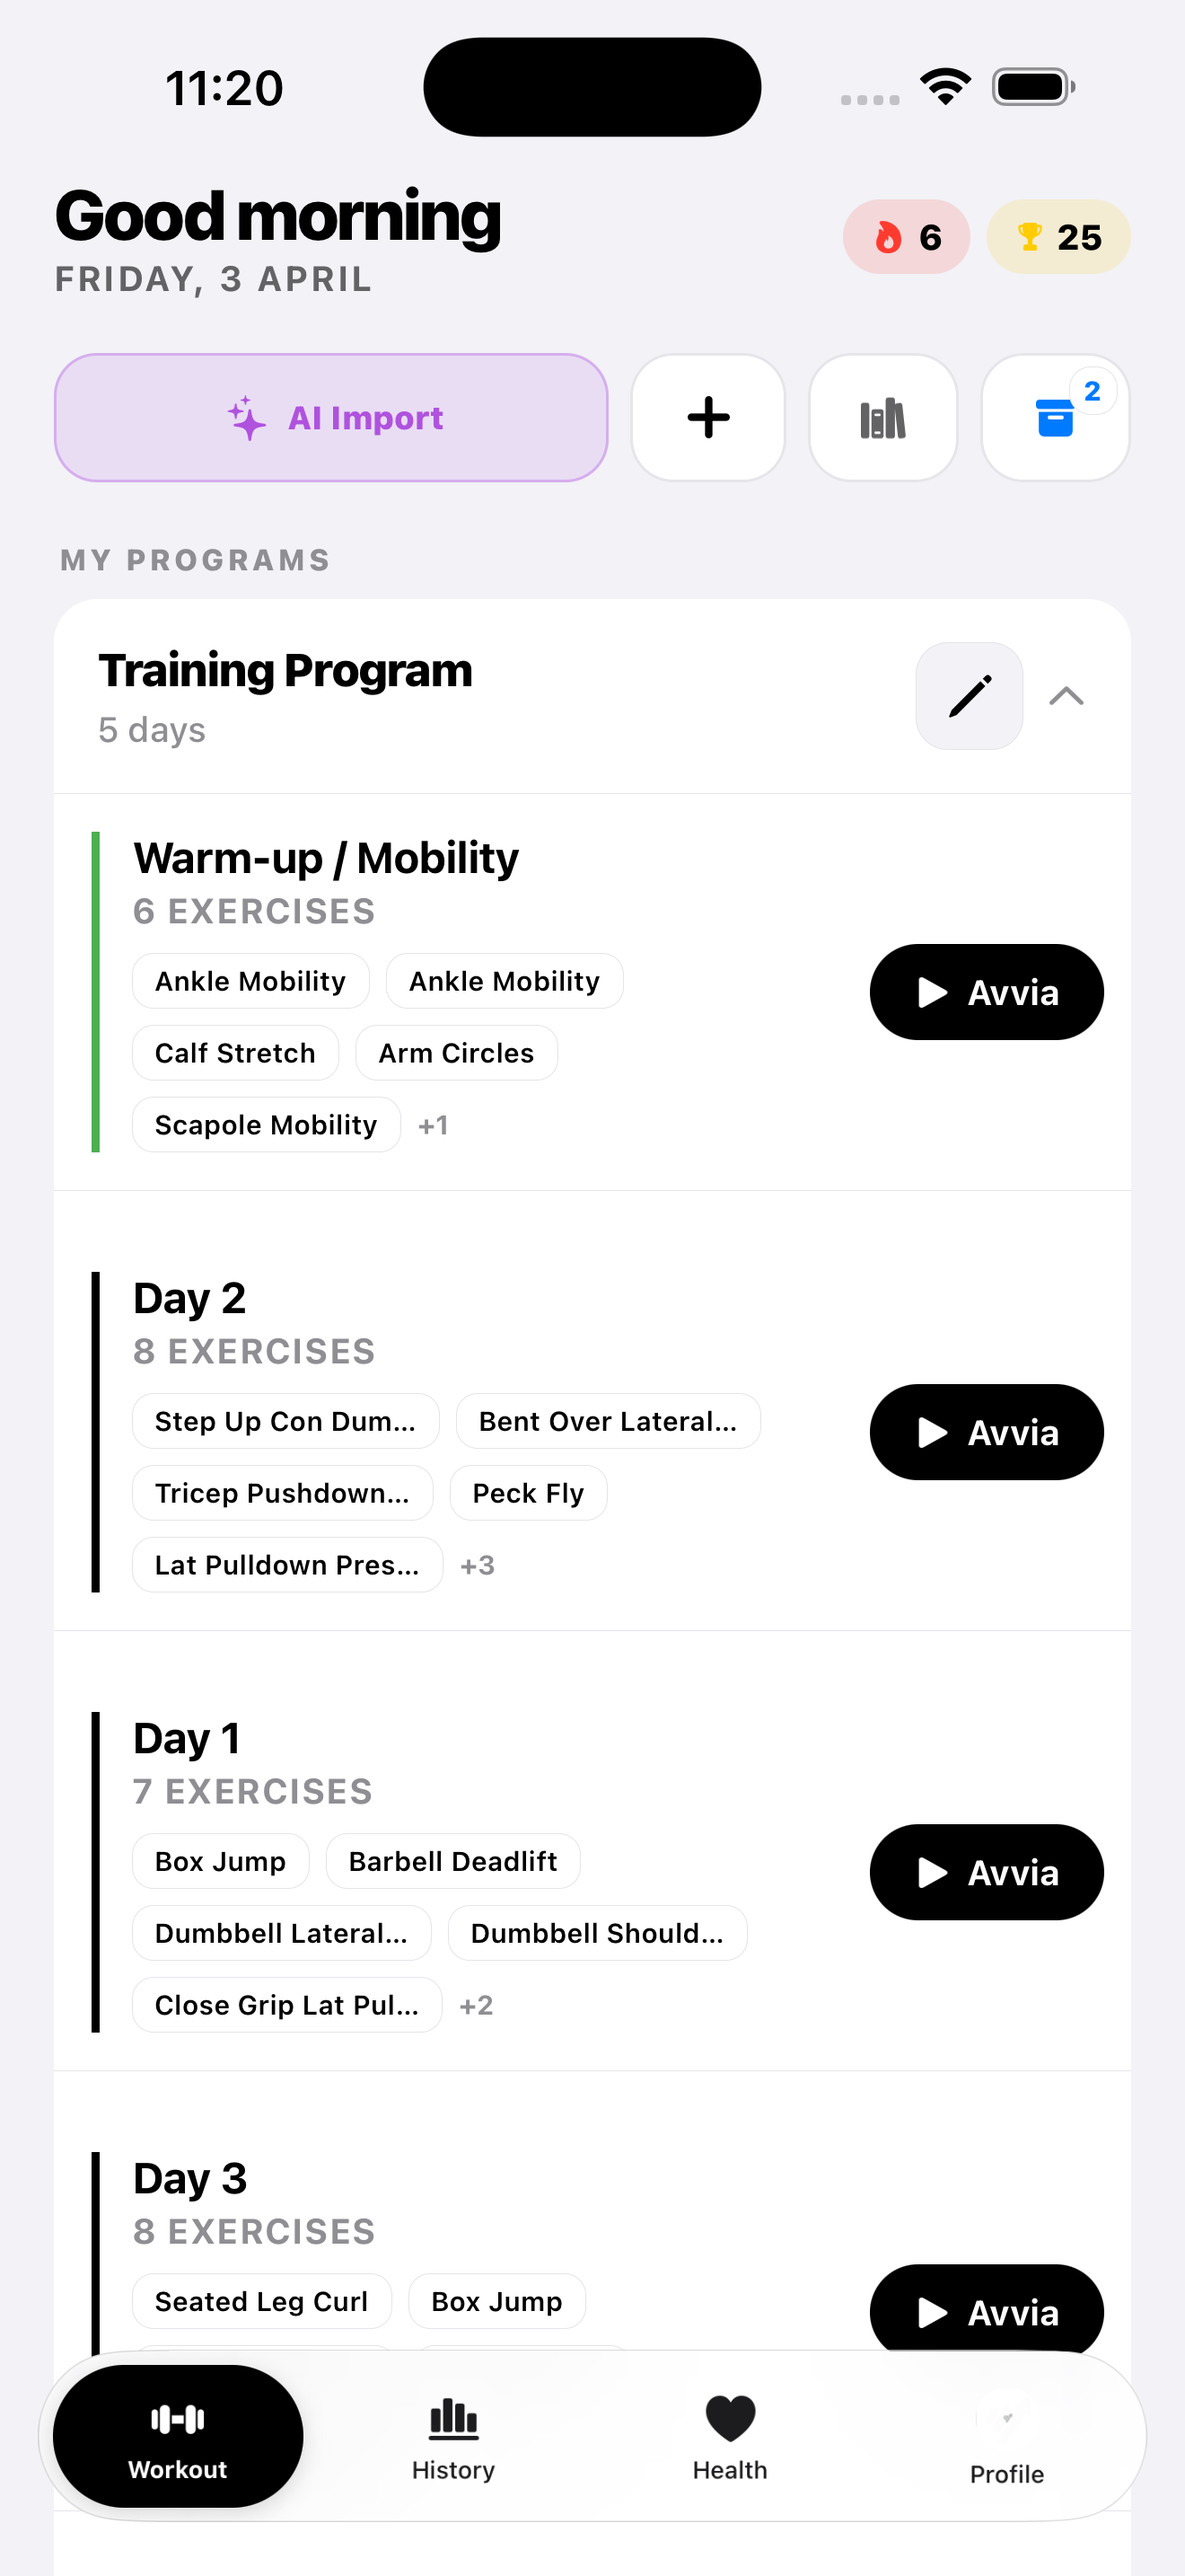
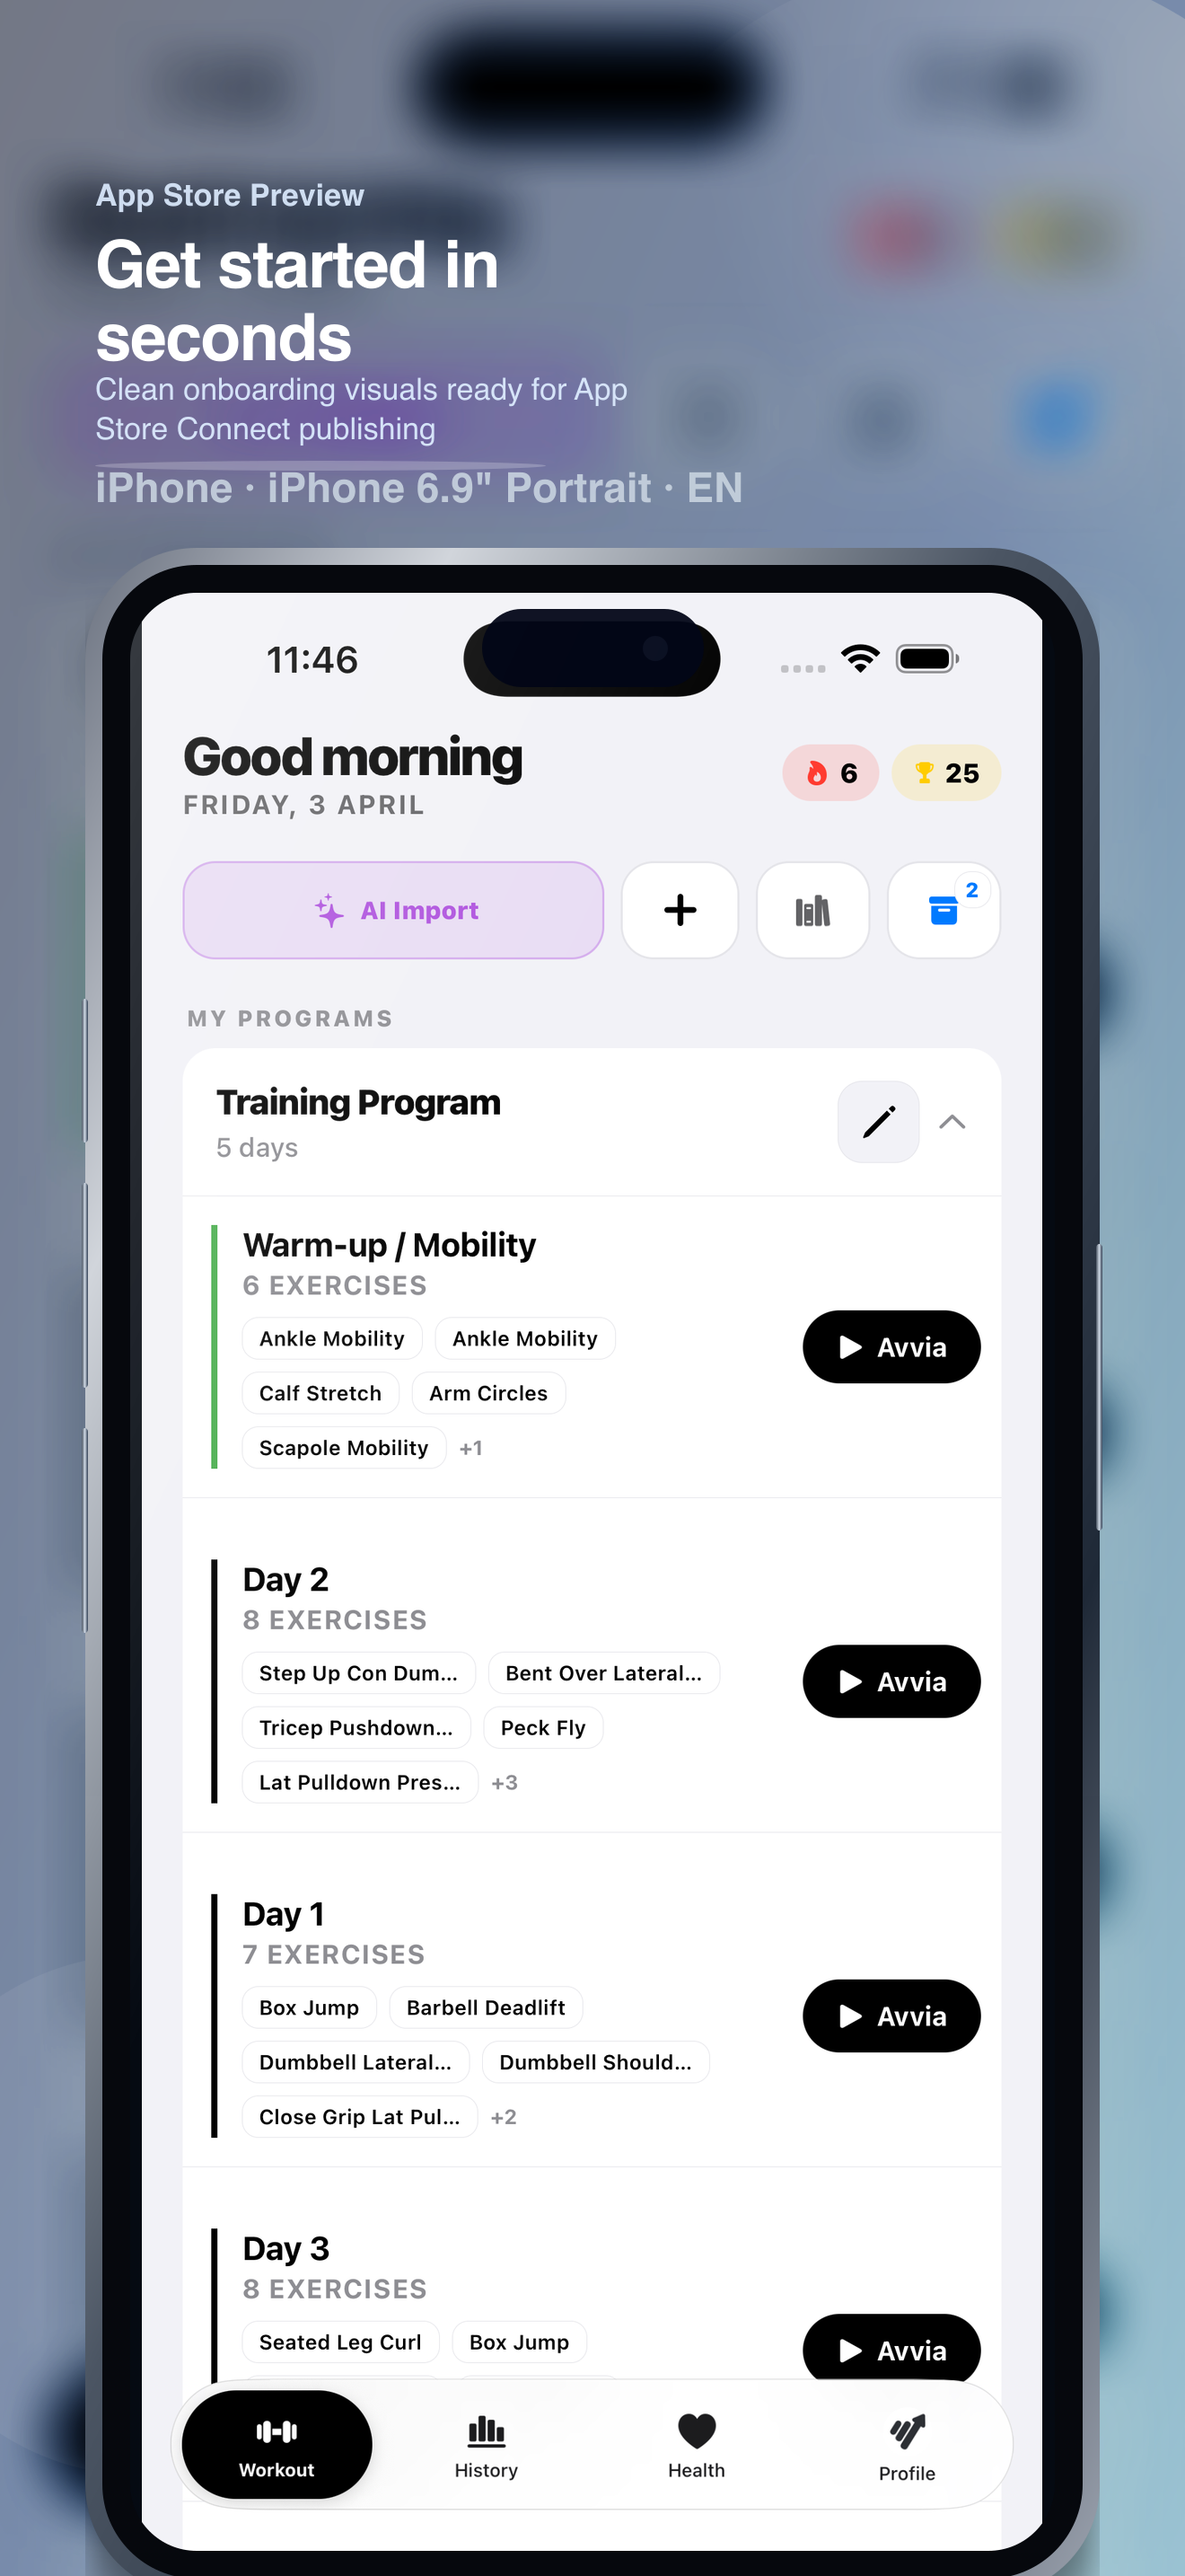
fix(site): replace screenshots with framed App Store previews, fix HTML bugs
- Replace 4 plain simulator screenshots with 5 framed ScreenGenerator previews
  (Workout, Statistics, Muscle Analysis, Health, Profile tabs)
- Fix broken HTML: move <script> block out of <footer> to before </body>
- Fix stats bar: replace 'Apple'/'Watch' text values with ✓/⌚ icons
- Remove 'How it Works' from nav (matches footer nav)
- Add 5th carousel dot for new screenshot

diff --git a/index.html b/index.html
@@ -21,7 +21,6 @@
   </div>
   <div class="nav-links">
     <a href="#features">Features</a>
-    <a href="#how-it-works">How it Works</a>
     <a href="#screenshots">Screenshots</a>
     <a href="#pro">Pro</a>
     <a href="./privacy.html">Privacy</a>
@@ -55,7 +54,7 @@
       <div style="font-size:13px;color:var(--text-muted);margin-top:4px;">Exercises included</div>
     </div>
     <div>
-      <div style="font-size:32px;font-weight:800;background:var(--gradient-accent);-webkit-background-clip:text;-webkit-text-fill-color:transparent;">Apple</div>
+      <div style="font-size:32px;font-weight:800;background:var(--gradient-accent);-webkit-background-clip:text;-webkit-text-fill-color:transparent;">✓</div>
       <div style="font-size:13px;color:var(--text-muted);margin-top:4px;">HealthKit integrated</div>
     </div>
     <div>
@@ -63,7 +62,7 @@
       <div style="font-size:13px;color:var(--text-muted);margin-top:4px;">Bilingual app</div>
     </div>
     <div>
-      <div style="font-size:32px;font-weight:800;color:var(--text);">Watch</div>
+      <div style="font-size:32px;font-weight:800;color:var(--text);">⌚</div>
       <div style="font-size:13px;color:var(--text-muted);margin-top:4px;">Apple Watch support</div>
     </div>
   </div>
@@ -158,15 +157,19 @@
         <div class="screenshot-label">Workout</div>
       </div>
       <div class="screenshot-item">
-        <img src="./screenshots/02_history.png" alt="Progress & History">
-        <div class="screenshot-label">History &amp; Stats</div>
+        <img src="./screenshots/02_statistics.png" alt="Statistics">
+        <div class="screenshot-label">Statistics</div>
       </div>
       <div class="screenshot-item">
-        <img src="./screenshots/03_health.png" alt="Health Metrics">
-        <div class="screenshot-label">Health Metrics</div>
+        <img src="./screenshots/03_muscle.png" alt="Muscle Analysis">
+        <div class="screenshot-label">Muscle Analysis</div>
       </div>
       <div class="screenshot-item">
-        <img src="./screenshots/04_profile.png" alt="Profile">
+        <img src="./screenshots/04_health.png" alt="Health Metrics">
+        <div class="screenshot-label">Health</div>
+      </div>
+      <div class="screenshot-item">
+        <img src="./screenshots/05_profile.png" alt="Profile">
         <div class="screenshot-label">Profile</div>
       </div>
     </div>
@@ -175,6 +178,7 @@
       <button class="carousel-dot" onclick="scrollToScreenshot(1)" aria-label="Screenshot 2"></button>
       <button class="carousel-dot" onclick="scrollToScreenshot(2)" aria-label="Screenshot 3"></button>
       <button class="carousel-dot" onclick="scrollToScreenshot(3)" aria-label="Screenshot 4"></button>
+      <button class="carousel-dot" onclick="scrollToScreenshot(4)" aria-label="Screenshot 5"></button>
     </div>
   </div>
 </div>
@@ -203,37 +207,6 @@
 
 <!-- ── Footer ── -->
 <footer>
-
-<script>
-// Fade-in observer for index page
-const fadeObs = new IntersectionObserver((entries) => {
-  entries.forEach(e => { if (e.isIntersecting) { e.target.classList.add('visible'); fadeObs.unobserve(e.target); } });
-}, {threshold: 0.08});
-document.querySelectorAll('.fade-in').forEach(el => fadeObs.observe(el));
-
-// Screenshot carousel keyboard nav + dots
-const scroll = document.getElementById('screenshotScroll');
-const dots = document.querySelectorAll('.carousel-dot');
-if (scroll) {
-  scroll.addEventListener('keydown', (e) => {
-    if (e.key === 'ArrowRight') scroll.scrollBy({left: 300, behavior: 'smooth'});
-    if (e.key === 'ArrowLeft') scroll.scrollBy({left: -300, behavior: 'smooth'});
-  });
-  scroll.addEventListener('scroll', () => {
-    const items = scroll.querySelectorAll('.screenshot-item');
-    let idx = 0;
-    items.forEach((item, i) => {
-      if (item.offsetLeft <= scroll.scrollLeft + scroll.clientWidth / 2) idx = i;
-    });
-    dots.forEach((d, i) => d.classList.toggle('active', i === idx));
-  }, {passive: true});
-}
-function scrollToScreenshot(idx) {
-  if (!scroll) return;
-  const items = scroll.querySelectorAll('.screenshot-item');
-  if (items[idx]) scroll.scrollTo({left: items[idx].offsetLeft - 24, behavior: 'smooth'});
-}
-</script>
 
   <div class="footer-inner">
     <div>
@@ -274,6 +247,37 @@ function scrollToScreenshot(idx) {
     <p><a href="./privacy.html" style="color:var(--text-muted);">Privacy</a> · <a href="./terms.html" style="color:var(--text-muted);">Terms</a> · <a href="./cookies.html" style="color:var(--text-muted);">Cookies</a></p>
   </div>
 </footer>
+
+<script>
+// Fade-in observer
+const fadeObs = new IntersectionObserver((entries) => {
+  entries.forEach(e => { if (e.isIntersecting) { e.target.classList.add('visible'); fadeObs.unobserve(e.target); } });
+}, {threshold: 0.08});
+document.querySelectorAll('.fade-in').forEach(el => fadeObs.observe(el));
+
+// Screenshot carousel keyboard nav + dots
+const scroll = document.getElementById('screenshotScroll');
+const dots = document.querySelectorAll('.carousel-dot');
+if (scroll) {
+  scroll.addEventListener('keydown', (e) => {
+    if (e.key === 'ArrowRight') scroll.scrollBy({left: 300, behavior: 'smooth'});
+    if (e.key === 'ArrowLeft') scroll.scrollBy({left: -300, behavior: 'smooth'});
+  });
+  scroll.addEventListener('scroll', () => {
+    const items = scroll.querySelectorAll('.screenshot-item');
+    let idx = 0;
+    items.forEach((item, i) => {
+      if (item.offsetLeft <= scroll.scrollLeft + scroll.clientWidth / 2) idx = i;
+    });
+    dots.forEach((d, i) => d.classList.toggle('active', i === idx));
+  }, {passive: true});
+}
+function scrollToScreenshot(idx) {
+  if (!scroll) return;
+  const items = scroll.querySelectorAll('.screenshot-item');
+  if (items[idx]) scroll.scrollTo({left: items[idx].offsetLeft - 24, behavior: 'smooth'});
+}
+</script>
 
 </body>
 </html>
